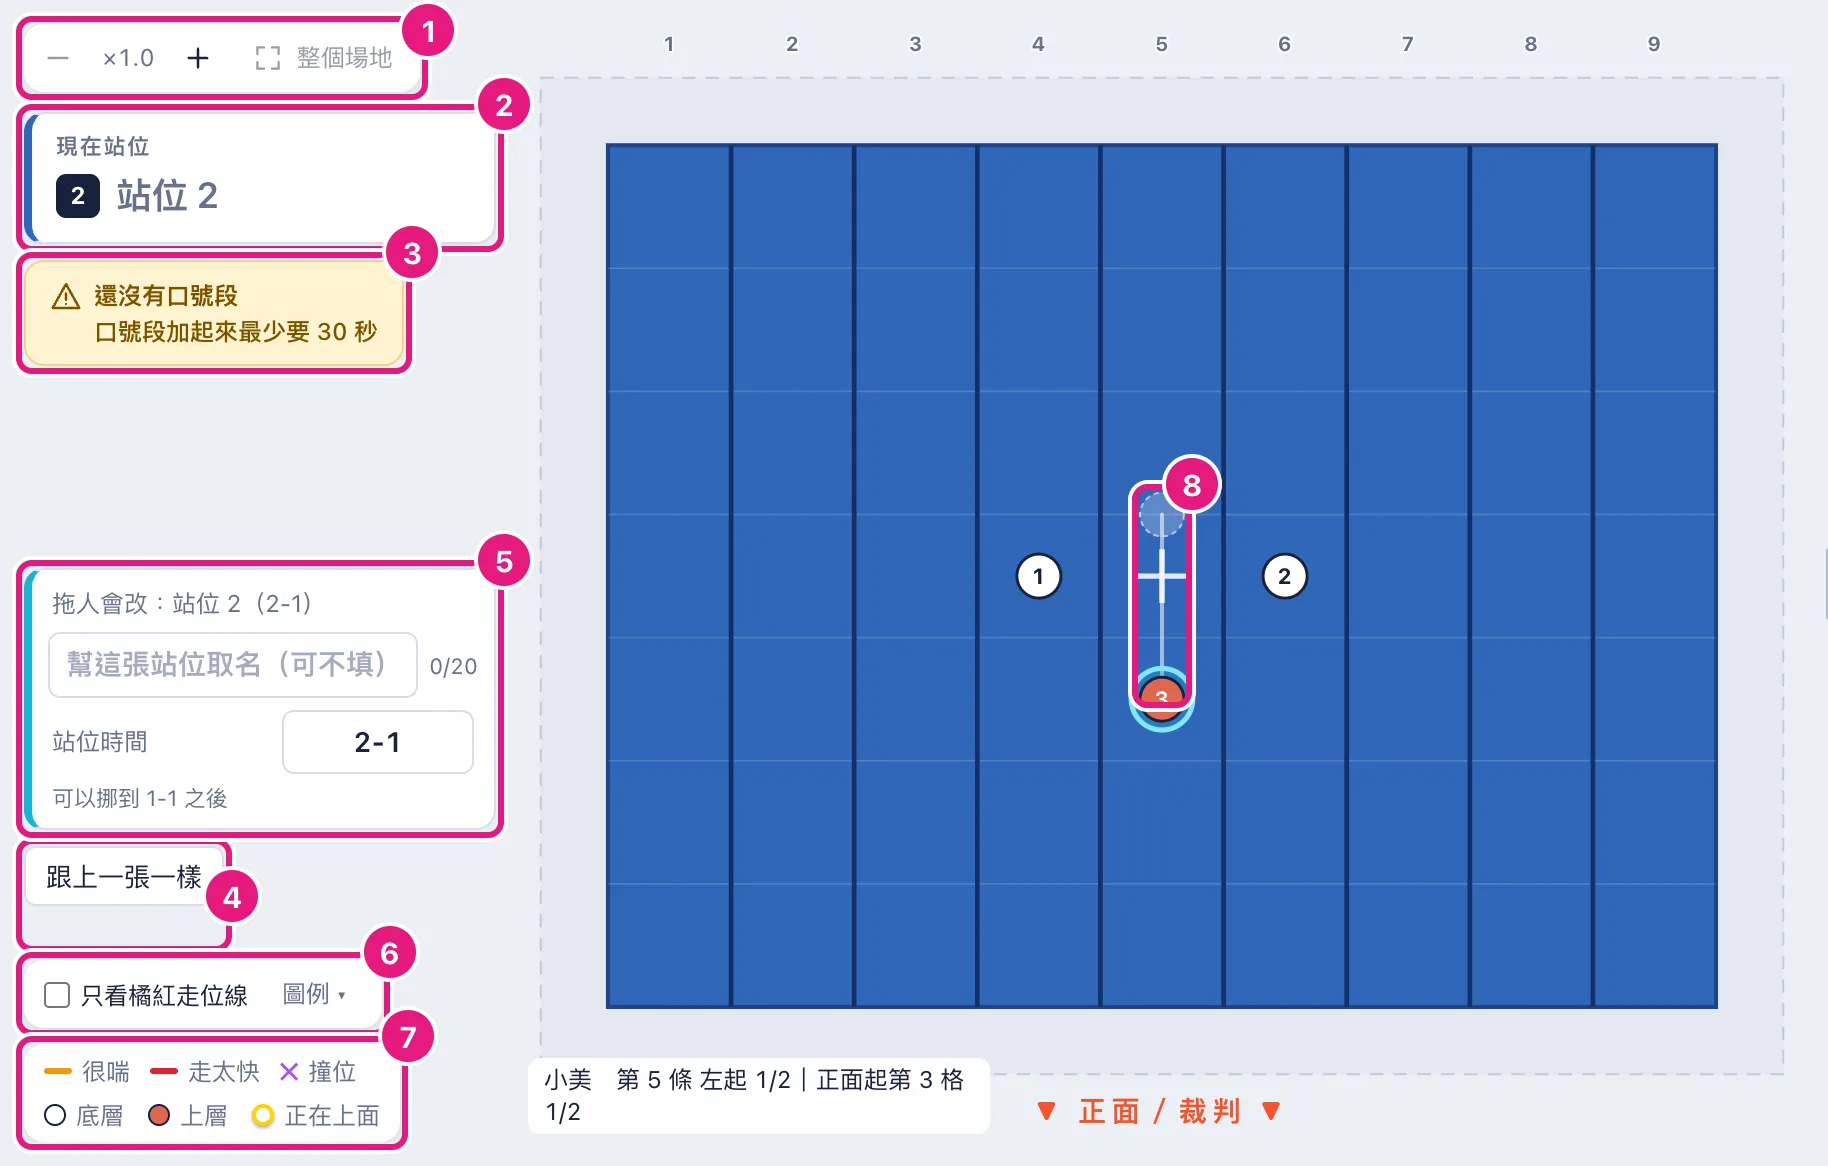
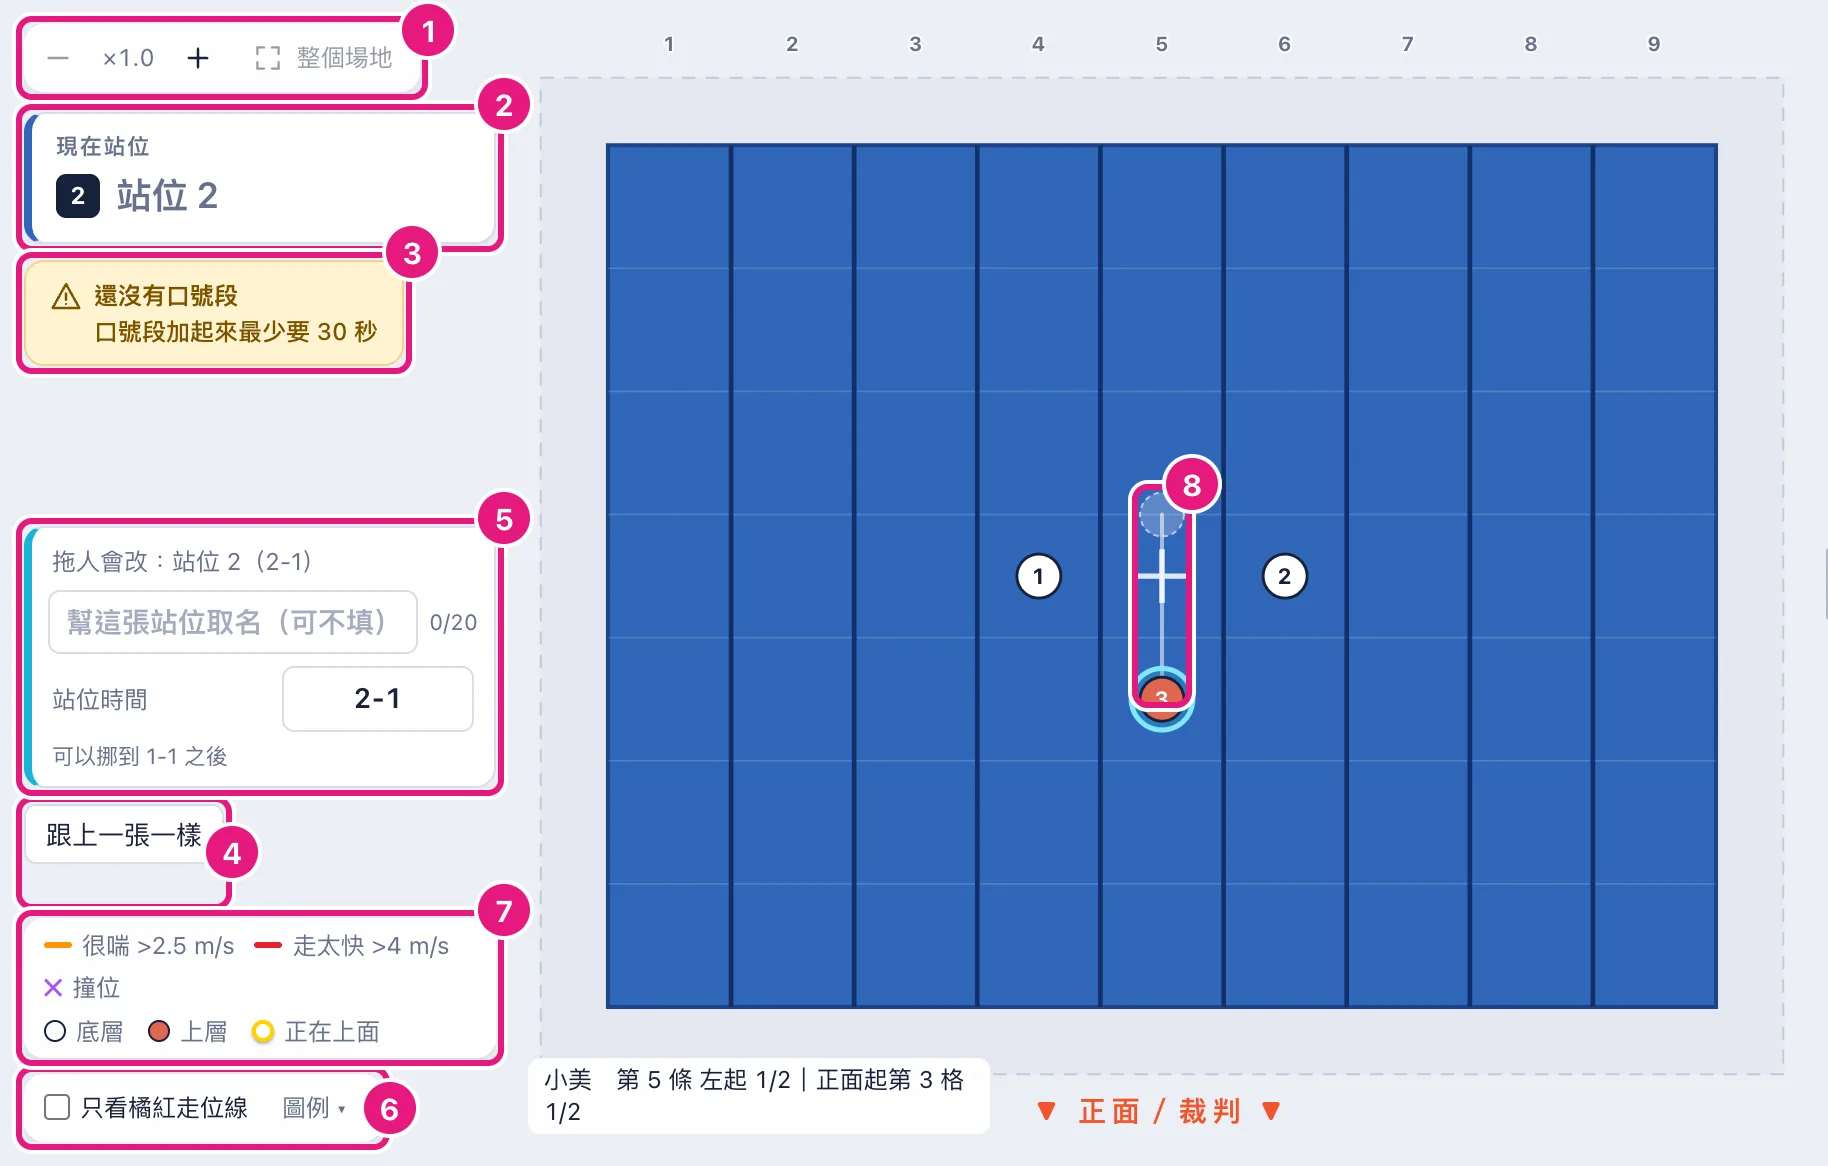
圖例改放在「只看橘紅走位線」上面（#216 加了門檻後圖例變三行）：左欄很矮時捲到底，「只看橘紅走位線」和「圖例」鈕還看得到、點得到；說明和截圖跟著改（#214）

Changed region(s): [[0.0, 0.4014, 0.3118, 0.988]]

diff --git a/src/routes/guide/+page.svelte b/src/routes/guide/+page.svelte
@@ -297,10 +297,10 @@
 							<tr><td><b>目前位置</b></td><td>上方列中間的深色小框，寫播放頭在哪，例如「音樂 1 3-5&amp;」（在流程最後面時寫「結尾」）；下面一行是現在第幾分幾秒，斜線後面是整支流程多長。</td></tr>
 							<tr class="group"><td colspan="2">場地</td></tr>
 							<tr><td><b>場地</b></td><td>畫面中間的圖，就是 2.1 的場地照比例畫出來。圓點是隊員，點上寫的字是他的<b>標記</b>（預設是名單上第幾個；兩個字以上的標記，圓點拉長成橫的膠囊）。滑鼠停在圓點上，看得到他的名字和在第幾條、第幾格。外圍虛線框外面的 1、2、3…是<b>條</b>的號碼（直放寫在後面那一邊，橫放寫在左邊），站在場外的人不會蓋到，場地放大後也固定在畫面邊上；中間的白色小 ＋ 是場地正中心（滑鼠移過去寫「場地正中心」）；紫色的 ✕ 是撞位（見 <a href="#formations">4.5</a>）。場地和時間軸中間有一道分界，往上、下拖就能讓場地或時間軸大一點（雙擊或按左邊欄的「版面回原狀」回到預設），這台電腦會記住。</td></tr>
-							<tr><td><b>左邊欄</b></td><td>場地左邊那一欄工具，不會蓋到場地（見<a href="#rail-shot">圖 4</a>）。由上往下：放大縮小、「多選」「取消選取」（只有 iPad 這種觸控螢幕才有）、「版面回原狀」（拖過分界才有），這幾個固定在最上面，左邊欄捲下去也看得到；再來是現在站位、規則警告、拍點的大字卡（見 <a href="#cues">4.7</a>）；靠下面是「拖人會改」那一行字、站位名稱框和站位時間框（播放頭停在站位上才有）、「跟上一張一樣」（位置固定，播放頭在不在站位上都不會跳）、「只看橘紅走位線」和「圖例」鈕、圖例（很喘、走太快、撞位，底層、上層、正在上面）。</td></tr>
+							<tr><td><b>左邊欄</b></td><td>場地左邊那一欄工具，不會蓋到場地（見<a href="#rail-shot">圖 4</a>）。由上往下：放大縮小、「多選」「取消選取」（只有 iPad 這種觸控螢幕才有）、「版面回原狀」（拖過分界才有），這幾個固定在最上面，左邊欄捲下去也看得到；再來是現在站位、規則警告、拍點的大字卡（見 <a href="#cues">4.7</a>）；靠下面是「拖人會改」那一行字、站位名稱框和站位時間框（播放頭停在站位上才有）、「跟上一張一樣」（位置固定，播放頭在不在站位上都不會跳）、圖例（很喘、走太快、撞位，底層、上層、正在上面），最下面是「只看橘紅走位線」和「圖例」鈕。</td></tr>
 							<tr><td><b>現在站位</b></td><td>左邊欄放大縮小下面的白色小卡，寫播放頭這一刻是哪一張站位：號碼和站位名稱（沒取名就寫「站位 2」）。兩張站位中間時，寫前一張。</td></tr>
 							<tr><td><b>提示</b></td><td>場地上方中間的深藍小框（不蓋到下面的「正面／裁判」和站在正面場外的人），告訴你剛剛發生什麼事或為什麼不能做。過 5 秒，或你做下一個操作，就自己收起來；也可以按 × 收起。刪站位、刪動作的提示旁邊有「復原」，留 10 秒；滑鼠移到提示上時不會收起來。</td></tr>
-							<tr><td><b>圖例</b></td><td>左邊欄最下面：橘線是很喘、紅線是走太快、紫色 ✕ 是撞位；白點是底層、紅點是上層（全局角色），黃圈是正在上面。按「只看橘紅走位線」旁邊的「圖例 ▾」收起來，變成「圖例 ▸」，再按一次打開；收起來還是打開存在這台電腦。</td></tr>
+							<tr><td><b>圖例</b></td><td>左邊欄靠下面、「只看橘紅走位線」上面：橘線是很喘、紅線是走太快（旁邊寫每秒幾公尺算），紫色 ✕ 是撞位；白點是底層、紅點是上層（全局角色），黃圈是正在上面。按「只看橘紅走位線」旁邊的「圖例 ▾」收起來，變成「圖例 ▴」，再按一次打開；收起來還是打開存在這台電腦。</td></tr>
 							<tr><td><b>大字卡</b></td><td>播放頭在有拍點的動作裡時，左邊欄規則警告下面出現的卡，用大字寫這一拍的拍點（見 <a href="#cues">4.7</a>）。</td></tr>
 							<tr><td><b>規則警告</b></td><td>左邊欄「現在站位」下面的黃色小框，一條一行，每條有粗體小標題（「口號段太短」「還沒有口號段」「音樂段太長」「整支流程太長」）。口號段加起來比「口號段加起來最少」短、音樂段加起來比上限長、整支流程比上限長時出現。只提醒，不擋你。預設就開著；點一條就打開「流程設定」，游標直接停在那條規則的數字上，可以改數字或關掉（見 <a href="#settings">4.8</a>）。關掉時這裡改成灰色的「規則警告關著」，點它就到流程設定的開關，打勾就再打開。</td></tr>
 							<tr class="group"><td colspan="2">右邊欄</td></tr>
@@ -670,7 +670,7 @@
 					騰翻的走位上會不會撞到人，編輯器幫你看。<b>撞位</b>是兩個隊員在同一時間靠得太近（兩人中心距離不到半格，剛好半格不算），而且至少一個人正在騰翻中走位：在他自己參加的騰翻動作時間裡（助跑也算在騰翻動作裡），而且在出發之後、到達之前。另一個人站著、在一般走位或也在騰翻都算。一般走位跟別人靠很近是常有的事，不算撞位；原地騰翻（位置沒變）也不算。音樂段每半拍、口號段每 0.1 秒看一次，連續好幾次都撞到只算一次，記在兩人最近的那一刻。
 				</p>
 				<ul class="steps">
-					<li><b>場地上：</b>播放頭在站位上或兩張站位中間時，這一段走位裡撞到的地方畫一個紫色 ✕（左邊欄「只看橘紅走位線」下面的圖例也有）。滑鼠移到 ✕ 上，寫是誰撞到。</li>
+					<li><b>場地上：</b>播放頭在站位上或兩張站位中間時，這一段走位裡撞到的地方畫一個紫色 ✕（左邊欄「只看橘紅走位線」上面的圖例也有）。滑鼠移到 ✕ 上，寫是誰撞到。</li>
 					<li><b>泳道上：</b>兩個人的走位條，撞到的那一段變紫色。</li>
 				</ul>
 				<p class="note">只提醒，不擋。要避開，就改其中一個人的出發、到達（見<a href="#設出發和到達">上面的「設出發和到達」</a>），或把他在站位裡的位置拖開一點，或把騰翻動作挪開。站著不動的兩個人疊在一起不算撞位，那是左邊欄的「疊在同一點」。</p>

diff --git a/src/lib/components/Field.svelte b/src/lib/components/Field.svelte
@@ -575,20 +575,7 @@
 			{@render railTop?.()}
 			<div class="rail-gap"></div>
 			{@render railBottom?.()}
-			<div class="walk-tools">
-				<label title="勾起來時，正常的白色走位線藏起來，只畫很喘（橘）和走太快（紅）的線">
-					<input type="checkbox" checked={!allWalkLines} onchange={() => (allWalkLines = !allWalkLines)} />只看橘紅走位線
-				</label>
-				<!-- 圖例可以收起來（存在這台電腦）；收著時箭頭朝右，看得出還能打開 -->
-				<button
-					type="button"
-					class="ghost legend-toggle"
-					aria-expanded={legendOpen}
-					aria-controls={legendId}
-					title={legendOpen ? '收起圖例' : '打開圖例'}
-					onclick={toggleLegend}>圖例<span class="caret" aria-hidden="true">{legendOpen ? '▾' : '▸'}</span></button
-				>
-			</div>
+			<!-- 圖例在「只看橘紅走位線」上面：左欄很矮（時間軸拖到最大）時，捲到底最下面那一行工具一定看得到、點得到 -->
 			<div class="legend-box" id={legendId} hidden={!legendOpen}>
 				<div class="walk-tools" aria-hidden="true">
 					<!-- 門檻寫短（m/s），時間軸拉高時左欄還捲得到；滑鼠移上去寫完整的。 -->
@@ -603,6 +590,20 @@
 					<span><i class="top"></i>上層</span>
 					<span><i class="up"></i>正在上面</span>
 				</div>
+			</div>
+			<div class="walk-tools">
+				<label title="勾起來時，正常的白色走位線藏起來，只畫很喘（橘）和走太快（紅）的線">
+					<input type="checkbox" checked={!allWalkLines} onchange={() => (allWalkLines = !allWalkLines)} />只看橘紅走位線
+				</label>
+				<!-- 圖例可以收起來（存在這台電腦）；收著時箭頭朝上，看得出還能打開 -->
+				<button
+					type="button"
+					class="ghost legend-toggle"
+					aria-expanded={legendOpen}
+					aria-controls={legendId}
+					title={legendOpen ? '收起圖例' : '打開圖例'}
+					onclick={toggleLegend}>圖例<span class="caret" aria-hidden="true">{legendOpen ? '▾' : '▴'}</span></button
+				>
 			</div>
 		</div>
 	{/if}
